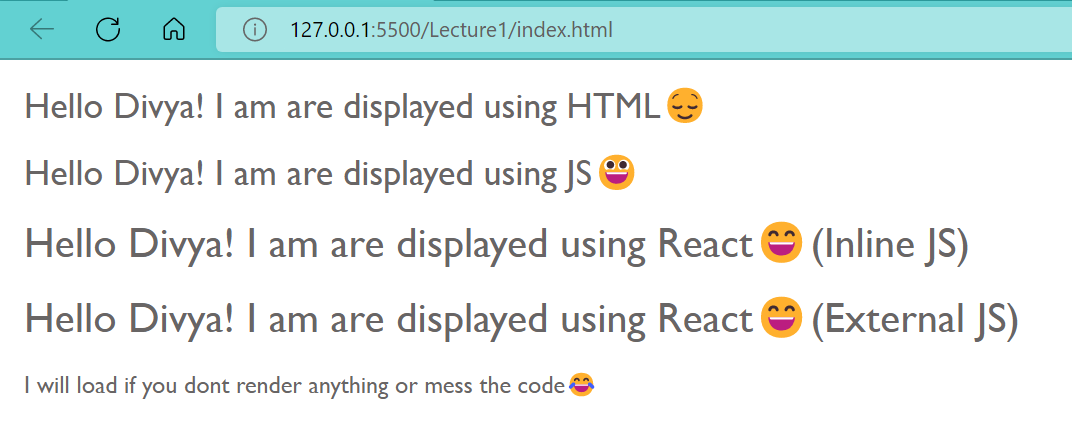
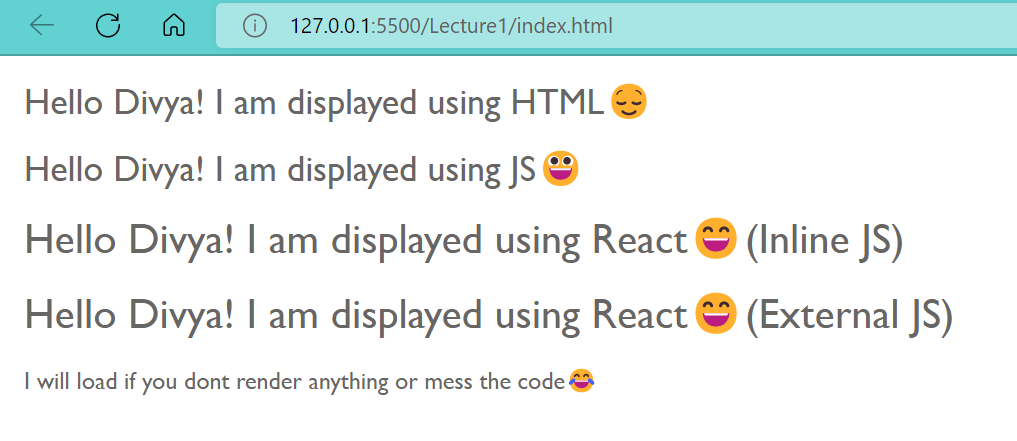
docs:Updated README.md

diff --git a/Lecture1/index.html b/Lecture1/index.html
@@ -16,7 +16,7 @@
   <body>
     <!--Using HTML-->
     <div>
-      <h4>Hello Divya! I am are displayed using HTML😌</h4>
+      <h4>Hello Divya! I am displayed using HTML😌</h4>
     </div>
     <!--Using JS-->
     <div id="jsRoot"></div>
@@ -30,7 +30,7 @@
   <script>
     const h4Tag = document.createElement("h4");
     const getJsRoot = document.getElementById("jsRoot");
-    h4Tag.innerText = "Hello Divya! I am are displayed using JS😀";
+    h4Tag.innerText = "Hello Divya! I am displayed using JS😀";
     getJsRoot.appendChild(h4Tag);
   </script>
   <!-- Added React and ReactDOM CDN -->
@@ -47,7 +47,7 @@
     const h3Tag = React.createElement(
       "h3",
       {},
-      "Hello Divya! I am are displayed using React😄(Inline JS)"
+      "Hello Divya! I am displayed using React😄(Inline JS)"
     );
     const getReactRoot = ReactDOM.createRoot(
       document.getElementById("reactRoot")

diff --git a/Lecture1/App.js b/Lecture1/App.js
@@ -1,3 +1,3 @@
-const h3tag = React.createElement("h3", {}, "Hello Divya! I am are displayed using React😄(External JS)");
+const h3tag = React.createElement("h3", {}, "Hello Divya! I am displayed using React😄(External JS)");
 const getReactRoot1 = ReactDOM.createRoot(document.getElementById("reactRoot1"));
 getReactRoot1.render(h3tag);
